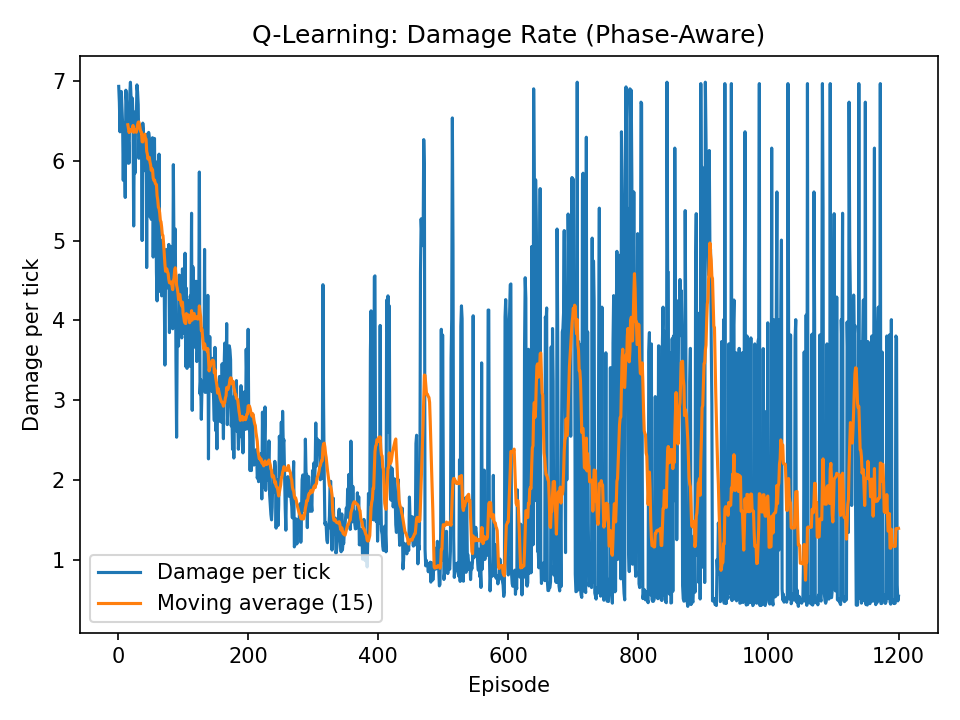
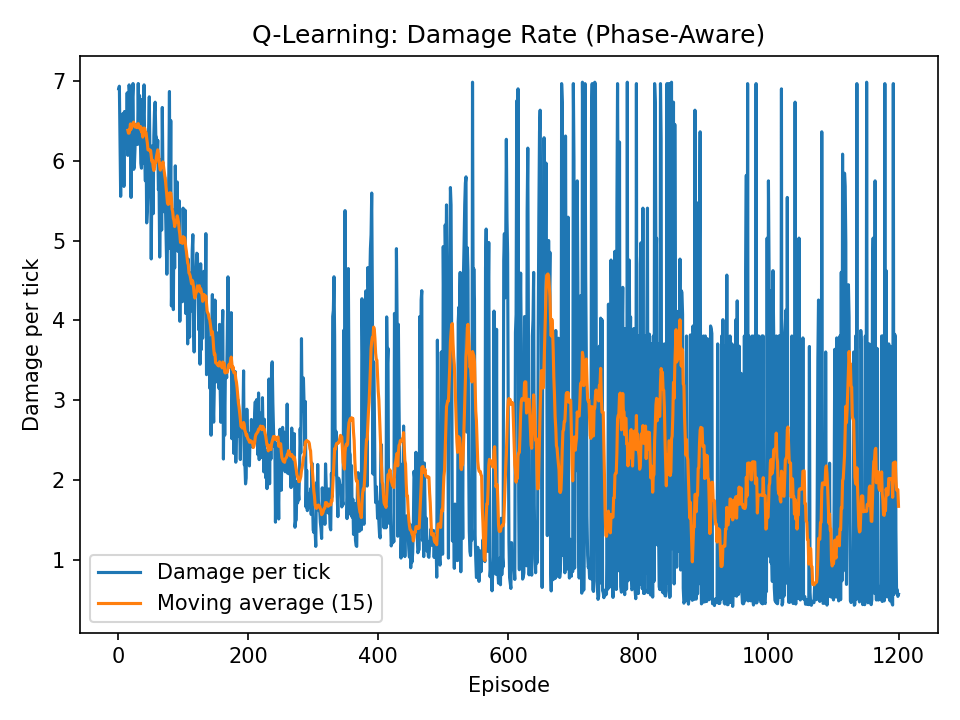
Experiment 2: Ablation

Changed region(s): [[0.125, 0.0917, 0.9375, 0.8556]]

diff --git a/q_learning.py b/q_learning.py
@@ -41,6 +41,7 @@ def train_q_learning(
     # Q-table: rows = states, columns = actions
     n_states = env.n_states if use_phase else (env.n_states // 5)
     Q = np.zeros((n_states, env.n_actions), dtype=float)
+    
 
     
     epsilon = epsilon_start
@@ -222,11 +223,10 @@ def run_greedy_policy(Q: np.ndarray, max_steps: int = 20000, use_phase: bool = T
 
         
 if __name__ == "__main__":
-
     # Choose which experiment to run
     # "baseline" = ignores phase (state compressed)
     # "phase"    = uses full state (position + tick_mod_5)
-    RUN_MODE = "baseline"   # <-- change to "baseline" when needed
+    RUN_MODE = "phase"   # <-- change to "baseline" when needed
 
     if RUN_MODE == "baseline":
         print("\n=== BASELINE RUN (no phase) ===\n")
@@ -239,7 +239,6 @@ if __name__ == "__main__":
         use_phase = True
         tag = "phase"
         title_prefix = "Phase-Aware"
-
     else:
         raise ValueError('RUN_MODE must be "baseline" or "phase"')
 

diff --git a/playback.py b/playback.py
@@ -474,7 +474,7 @@ def main():
 
     # Choose snapshots to compare
     snap_a = "Q_ep0001.npy"
-    snap_b = "Q_ep0500.npy"
+    snap_b = "Q_ep0025.npy"
 
     Q_a = np.load(snap_a)
     Q_b = np.load(snap_b)

diff --git a/duke_env.py b/duke_env.py
@@ -6,7 +6,7 @@ ACTION_DELTAS = {
     1: np.array([0, 1]),   # Right
     2: np.array([1, 0]),   # Down
     3: np.array([0, -1]),  # Left
-    4: np.array([0, 0]),   # WAIT (no movement)
+
 }
 
 
